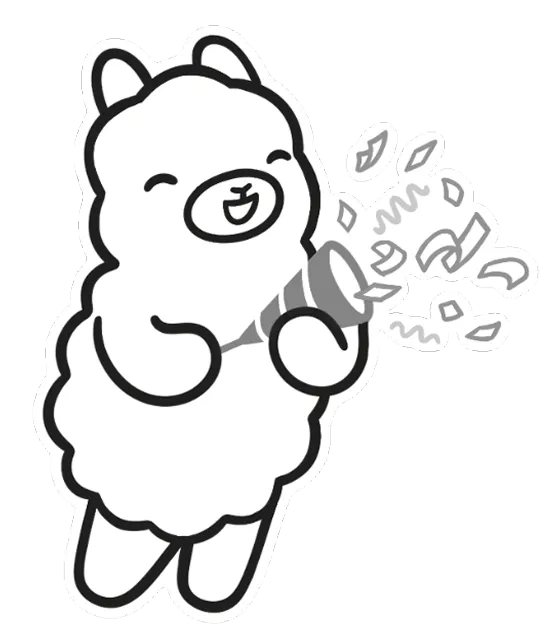
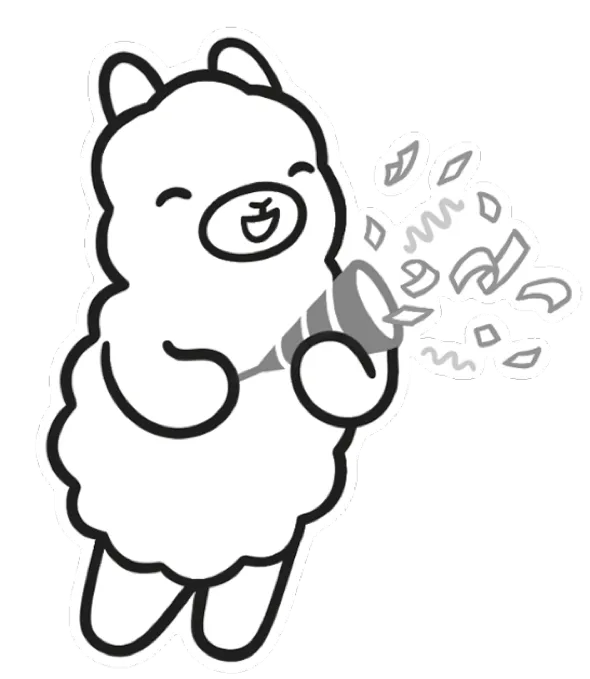
Normalize character image widths to 590px for consistent grid sizing
Resize all 12 expression WebPs to 590px wide (matching the widest
characters) so they render at equal width in the grid. Update CSS
to use width: 100% with auto height instead of fixed 120x120.

diff --git a/src/projects/ollama/styles/ollama.module.css b/src/projects/ollama/styles/ollama.module.css
@@ -579,10 +579,8 @@
 }
 
 .ollama-expression-img {
-  width: 120px;
-  height: 120px;
-  object-fit: contain;
-  margin: 24px 0;
+  width: 100%;
+  height: auto;
 }
 
 .ollama-expression-label {
